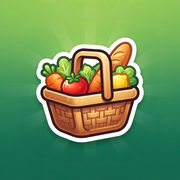
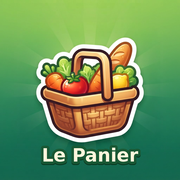
Ajoute le nom « Le Panier » en bas de l'icône
Claude-Session: https://claude.ai/code/session_01RR4o6yYL5mYAm7ZWdf4KyC

Changed region(s): [[0.2222, 0.8056, 0.7778, 0.9167]]

diff --git a/CLAUDE.md b/CLAUDE.md
@@ -85,7 +85,7 @@ Il n'y a pas de suite de tests dans le dépôt. Méthode utilisée : **jsdom** a
 - Prix saisis depuis des tickets Lidl : prix **net payé** (après remises), unité de base g/ml/pièce, articles non alimentaires inclus (rayons Hygiène, Entretien, Bébé et animaux, Autres).
 
 ## Icône de l'application
-- `icons/` (192, 512, 180 pour iOS, favicon 32) + `manifest.webmanifest`, liés dans `<head>` de `index.html` (chemins relatifs, pour le sous-dossier GitHub Pages). Panier d'osier avec légumes sur fond vert, généré par IA ; la même image sert d'icône « maskable » (le motif reste dans la zone sûre). Installation sur l'écran d'accueil à vérifier sur appareil.
+- `icons/` (192, 512, 180 pour iOS, favicon 32) + `manifest.webmanifest`, liés dans `<head>` de `index.html` (chemins relatifs, pour le sous-dossier GitHub Pages). Panier d'osier avec légumes sur fond vert, généré par IA, texte « Le Panier » ajouté en bas par script (police DejaVu Sans Bold) ; la même image sert d'icône « maskable » (le motif reste dans la zone sûre). Installation sur l'écran d'accueil à vérifier sur appareil.
 
 ## Sources et licences
 Dictionnaire : Open Food Facts (ODbL), codes Ciqual (Anses). Le crédit s'affiche en bas de page et dans le README ; le conserver.
